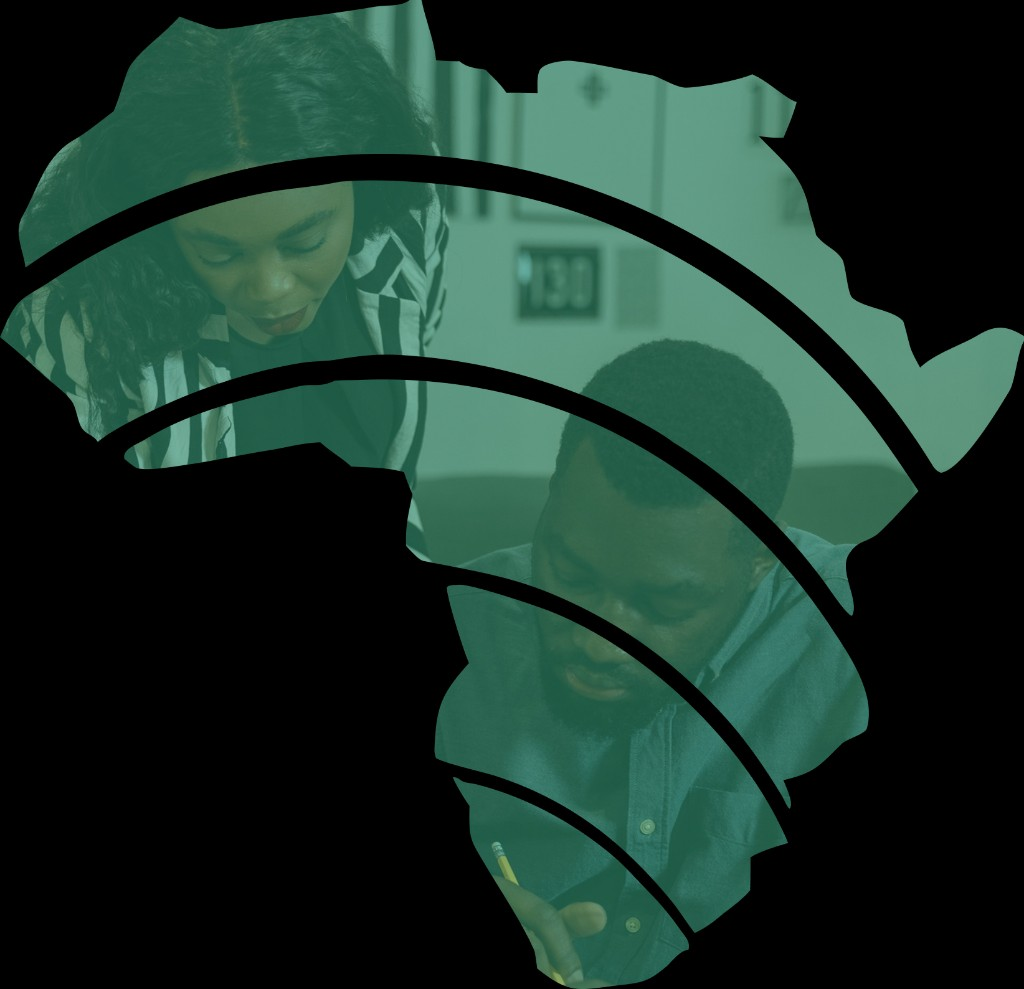
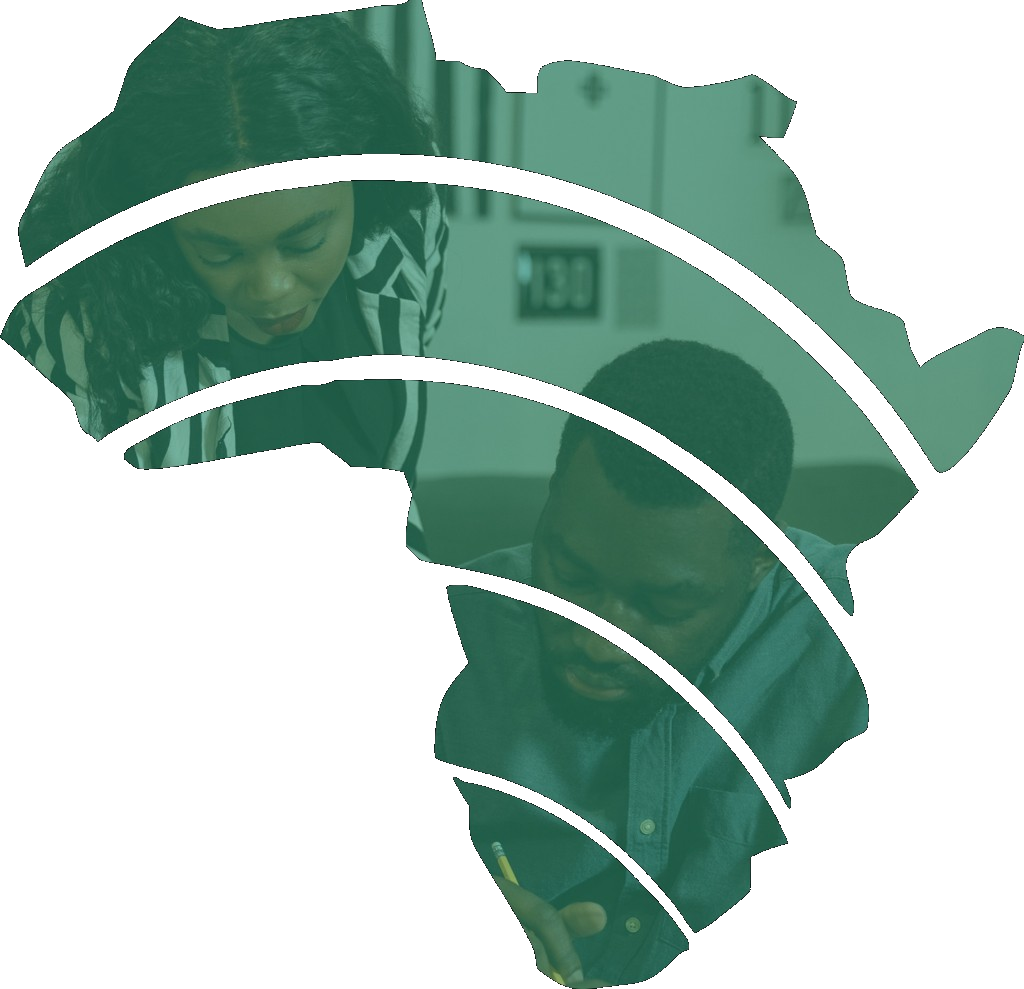
fix(login): transparent Africa background, livelier rotating backdrop, 'Welcome'
- Key the supplied Africa artwork's black background to transparent so the
  continent floats on the panel and the rotating imagery shows through.
- Make the full-bleed rotating backdrop more visible so it changes as before.
- Change the sign-in heading from 'Welcome back' to 'Welcome'.

diff --git a/src/pages/Login.tsx b/src/pages/Login.tsx
@@ -75,7 +75,7 @@ export default function Login() {
           key={s.image}
           className="absolute inset-0 transition-opacity duration-1000 ease-in-out pointer-events-none"
           style={{
-            opacity: i === slide ? 0.16 : 0,
+            opacity: i === slide ? 0.32 : 0,
             backgroundImage: `url(${s.image})`,
             backgroundSize: 'cover',
             backgroundPosition: 'center',
@@ -85,7 +85,7 @@ export default function Login() {
       ))}
       <div
         className="absolute inset-0 pointer-events-none"
-        style={{ background: 'linear-gradient(110deg, rgba(10,32,27,0.96) 0%, rgba(10,32,27,0.86) 45%, rgba(10,32,27,0.55) 100%)' }}
+        style={{ background: 'linear-gradient(110deg, rgba(10,32,27,0.96) 0%, rgba(10,32,27,0.84) 45%, rgba(10,32,27,0.42) 100%)' }}
       />
 
       {/* Right: Africa showcase — fully framed in the right half with a margin */}
@@ -131,7 +131,7 @@ export default function Login() {
             </p>
           </div>
 
-          <h2 className="font-display" style={{ color: 'white', fontSize: '1.5rem' }}>Welcome back</h2>
+          <h2 className="font-display" style={{ color: 'white', fontSize: '1.5rem' }}>Welcome</h2>
           <p style={{ color: 'rgba(255,255,255,0.6)', fontSize: '0.8125rem', marginTop: 4 }}>
             Sign in with your organization account to continue.
           </p>
